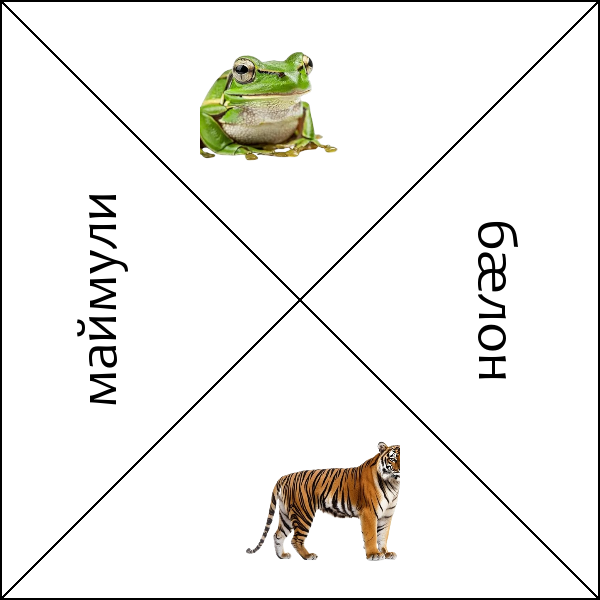
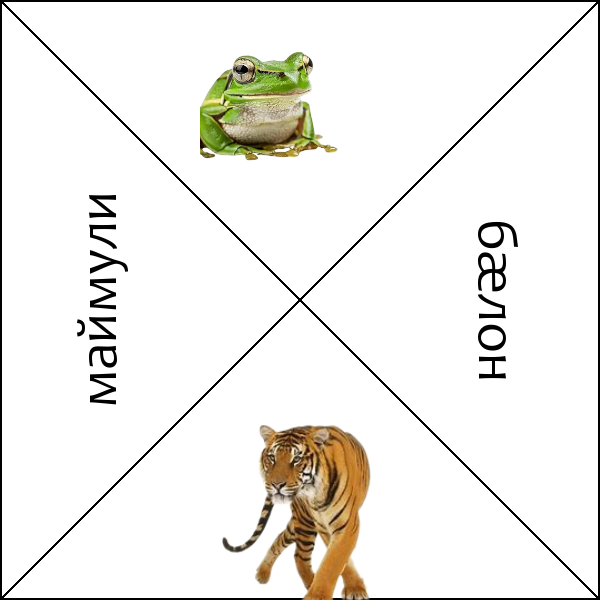
изменена картинка тигра и переименованы картинки

Changed region(s): [[0.36, 0.69, 0.69, 1.0]]

diff --git a/templates/playlevel1.html b/templates/playlevel1.html
@@ -43,16 +43,16 @@
 
 <div class="grid">
     <div class="cell" data-pos="0" ondrop="drop(event)" ondragover="allowDrop(event)">
-        <img src="{{ url_for('static', filename='images/level1/image1.png') }}" data-num="1" id="img1" draggable="true" ondragstart="drag(event)">
+        <img src="{{ url_for('static', filename='images/level1/1.png') }}" data-num="1" id="img1" draggable="true" ondragstart="drag(event)">
     </div>
     <div class="cell" data-pos="1" ondrop="drop(event)" ondragover="allowDrop(event)">
-        <img src="{{ url_for('static', filename='images/level1/image2.png') }}" data-num="2" id="img2" draggable="true" ondragstart="drag(event)">
+        <img src="{{ url_for('static', filename='images/level1/2.png') }}" data-num="2" id="img2" draggable="true" ondragstart="drag(event)">
     </div>
     <div class="cell" data-pos="2" ondrop="drop(event)" ondragover="allowDrop(event)">
-        <img src="{{ url_for('static', filename='images/level1/image3.png') }}" data-num="3" id="img3" draggable="true" ondragstart="drag(event)">
+        <img src="{{ url_for('static', filename='images/level1/3.png') }}" data-num="3" id="img3" draggable="true" ondragstart="drag(event)">
     </div>
     <div class="cell" data-pos="3" ondrop="drop(event)" ondragover="allowDrop(event)">
-        <img src="{{ url_for('static', filename='images/level1/image4.png') }}" data-num="4" id="img4" draggable="true" ondragstart="drag(event)">
+        <img src="{{ url_for('static', filename='images/level1/4.png') }}" data-num="4" id="img4" draggable="true" ondragstart="drag(event)">
     </div>
 </div>
 
